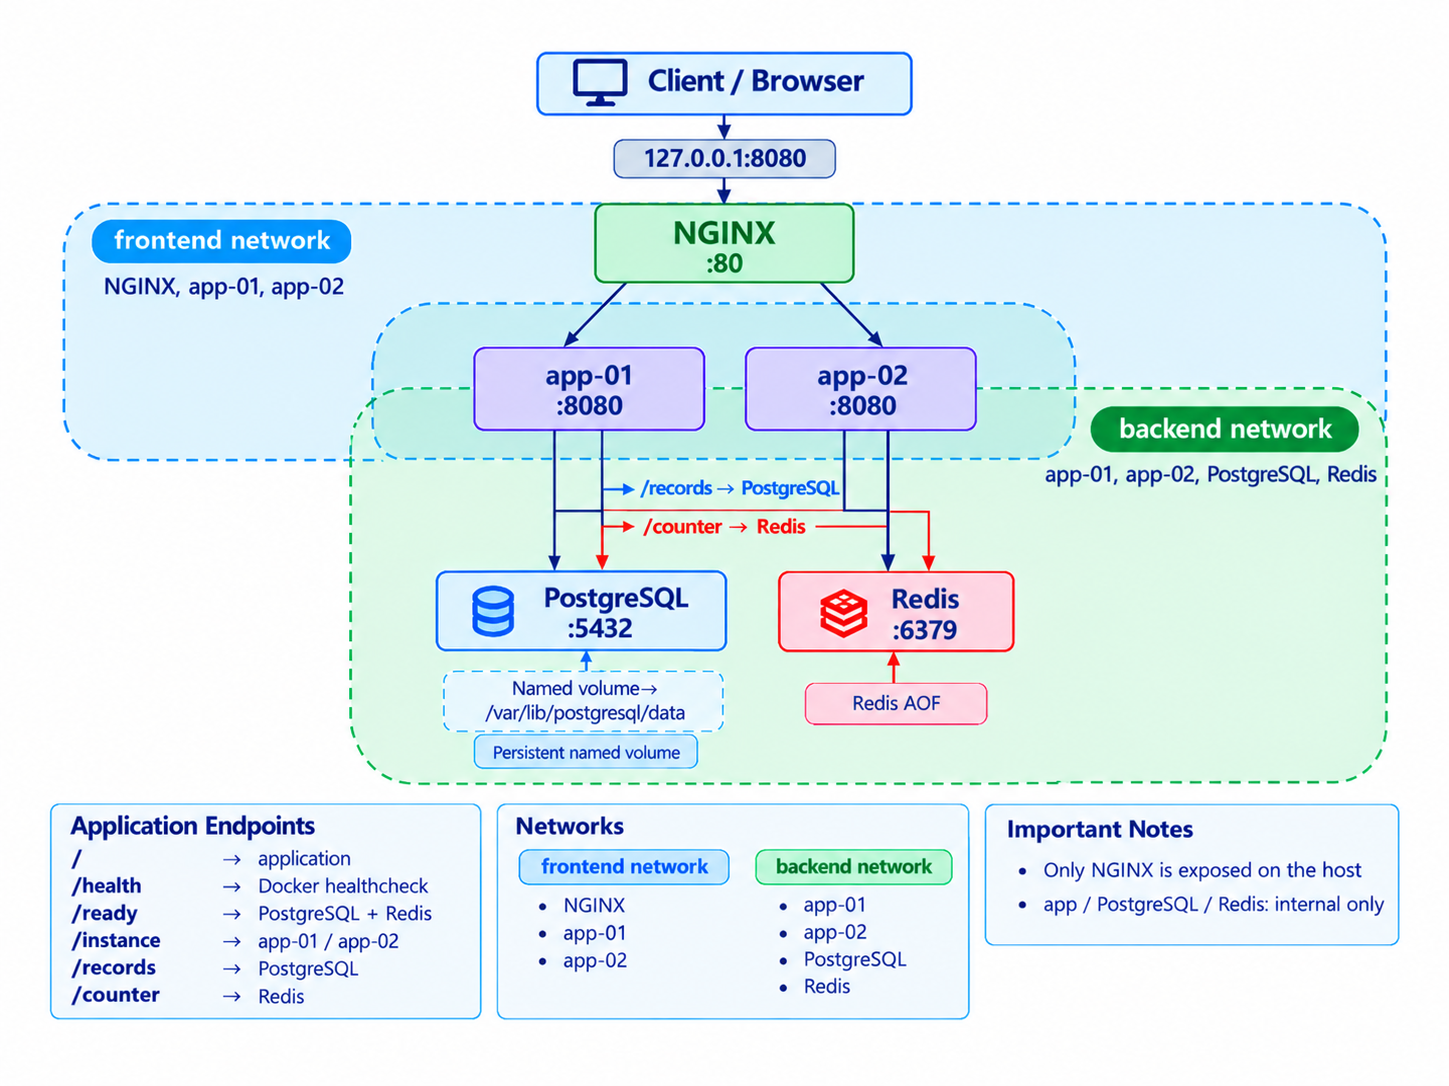
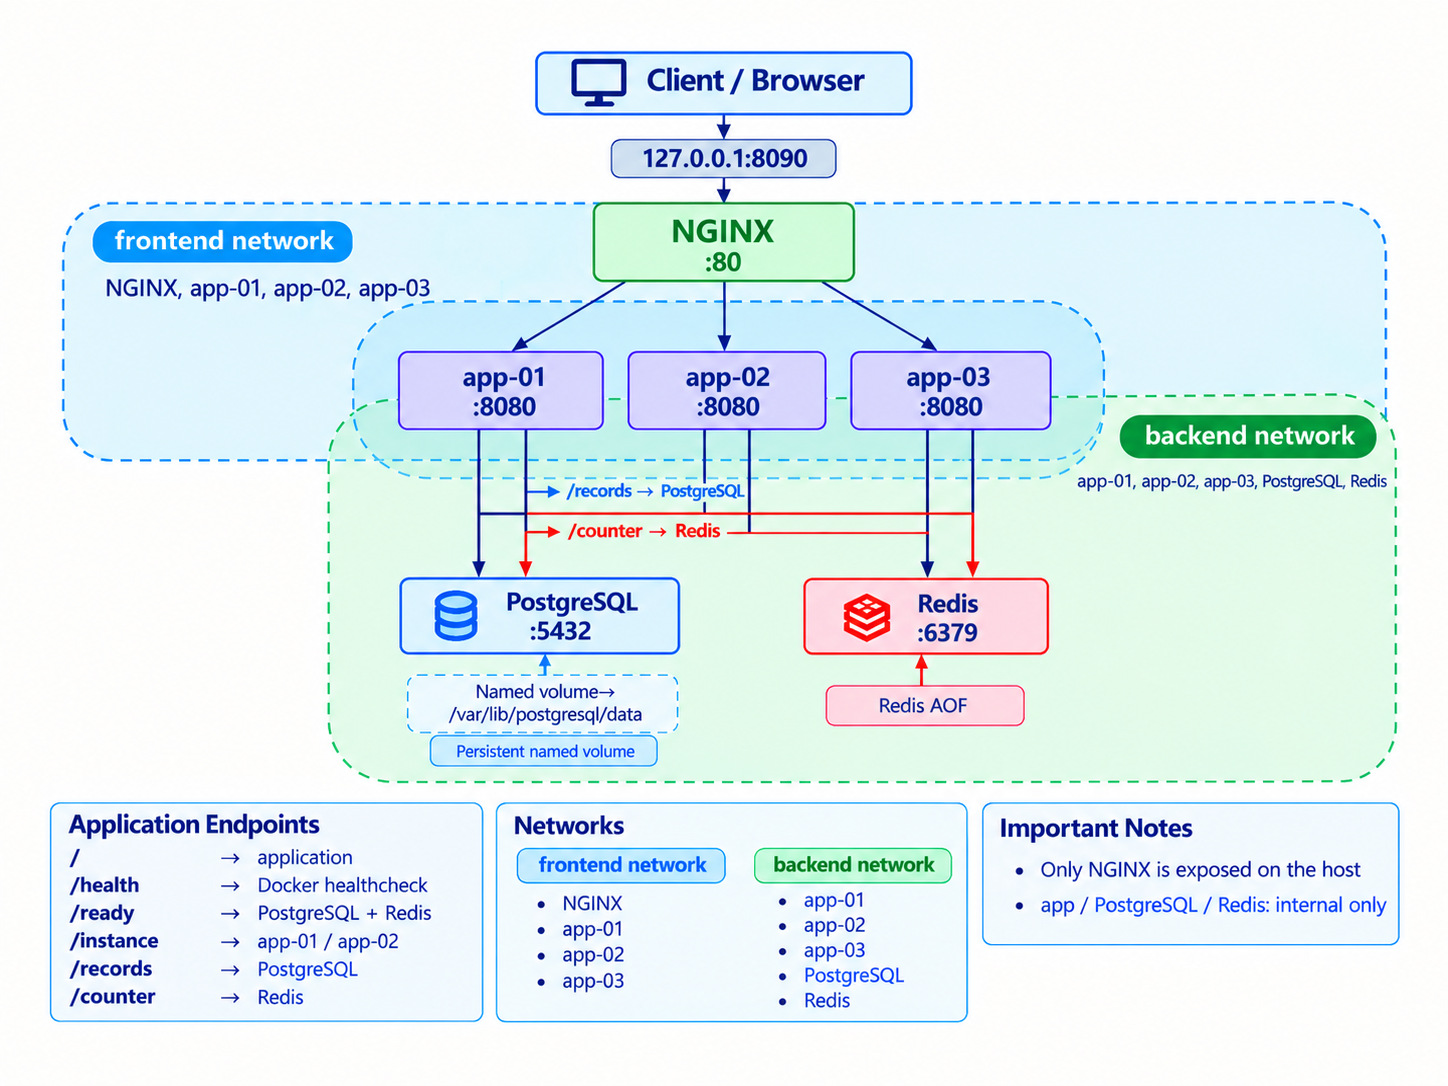
docs: finalize README and architecture

Changed region(s): [[0.0311, 0.0304, 0.9634, 0.942], [0.6526, 0.1823, 0.8391, 0.2127], [0.8702, 0.1823, 0.9323, 0.2127]]

diff --git a/README.md b/README.md
@@ -5,7 +5,7 @@
 A Docker Compose–based DevOps assessment environment containing:
 
 - NGINX reverse proxy (single public entry point)
-- Two Flask application instances (`app-01`, `app-02`)
+- Three Flask application instances (`app-01`, `app-02`, `app-03`)
 - PostgreSQL (persistence, named volume)
 - Redis (append-only persistence)
 - Separated `frontend` / `backend` Docker networks
@@ -28,8 +28,8 @@ A Docker Compose–based DevOps assessment environment containing:
 
 | Component | Network(s) | Published port |
 |-----------|------------|----------------|
-| NGINX | `frontend` only | `127.0.0.1:8080` |
-| `app-01`, `app-02` | `frontend` + `backend` | None (internal) |
+| NGINX | `frontend` only | `127.0.0.1:8090` |
+| `app-01`, `app-02`, `app-03` | `frontend` + `backend` | None (internal) |
 | PostgreSQL | `backend` only | None |
 | Redis | `backend` only | None |
 
@@ -90,7 +90,7 @@ docker compose -p barq-assessment down
 
 ## Application Endpoints
 
-All endpoints are accessed through NGINX at `http://127.0.0.1:8080`.
+All endpoints are accessed through NGINX at `http://127.0.0.1:8090`.
 
 | Endpoint | Method | Description |
 |----------|--------|-------------|
@@ -111,10 +111,10 @@ python3 validate.py
 
 Performs bounded integration checks against the running environment:
 
-- Public NGINX access on `http://127.0.0.1:8080`
+- Public NGINX access on `http://127.0.0.1:8090`
 - Application endpoint responses (`/`, `/health`, `/ready`, `/instance`, `/records`, `/counter`)
 - PostgreSQL and Redis readiness via `/ready`
-- Traffic reaching both `app-01` and `app-02`
+- Traffic reaching all three application instances (`app-01`, `app-02`, `app-03`)
 - Service health statuses
 - Network and port expectations
 
@@ -134,6 +134,8 @@ The test intentionally stops `app-01` while requests are in flight and then rest
 - After restarting `app-01`: **40 of 40 requests succeeded**, with both instances available.
 
 > This demonstrates surviving-backend service availability during single-instance failure, but also exposes transient request failures that occur when a backend is abruptly stopped.
+
+> This test was executed before the final `app-03` expansion, when the environment had two application instances (`app-01`, `app-02`). The final runtime was later expanded to three application instances.
 
 ---
 
@@ -188,7 +190,7 @@ The GitHub Actions workflow (`.github/workflows/ci.yml`) performs:
 2. **Compose validation** – runs `docker compose config -q`.
 3. **Build** – builds all images.
 4. **Start** – starts the full Compose environment.
-5. **Wait** – polls `http://localhost:8080/ready` until it returns HTTP 200.
+5. **Wait** – polls `http://localhost:8090/ready` until it returns HTTP 200.
 6. **Validate** – runs `python3 validate.py`.
 7. **Cleanup** – runs `docker compose down`.
 
@@ -210,21 +212,22 @@ The GitHub Actions workflow (`.github/workflows/ci.yml`) performs:
 
 ## Evidence Index
 
-| Area | Relevant files | Commit |
-|------|---------------|--------|
-| Baseline investigation | `troubleshooting.md` | `8442da3` |
-| Application / NGINX fixes | `docker-compose.yml`, `nginx/nginx.conf` | `5c9ca06` |
-| DB / Redis connectivity | `config/app.env` | `5992c22` |
-| Persistence / network isolation | `docker-compose.yml` | `58ae345` |
-| Runtime reliability (restarts, limits) | `docker-compose.yml` | `80d405d` |
-| Security fixes | `Dockerfile`, `docker-compose.yml`, `.gitignore`, `.dockerignore` | `1a1d567` |
-| Validation script | `validate.py` | `4034e2f` |
-| Failure / recovery test | `failure_test.py` | `21e3475` |
-| Backup / restore scripts | `backup.sh`, `restore.sh` | `187c49f` |
-| CI workflow | `.github/workflows/ci.yml` | `c5b5e82` |
-| Log analysis | `analyze_logs.py`, `log_analysis.md` | `ed281b7` |
-| Decision records | `decisions.md` | `fcfc037` |
-| Security review | `security_review.md` | `e45c7e8` |
-| AI usage disclosure | `AI_USAGE.md` | `5f0f654` |
-
-> Video timestamps will be added after the final recording.
+| Area | Relevant files | Commit | Video evidence |
+|------|----------------|--------|----------------|
+| Baseline investigation | `troubleshooting.md` | `8442da3` | 00:00–01:50 |
+| Application / NGINX fixes | `docker-compose.yml`, `nginx/nginx.conf` | `5c9ca06` | 01:50–03:55 |
+| DB / Redis connectivity | `config/app.env` | `5992c22` | 01:50–03:55 |
+| Persistence / network isolation | `docker-compose.yml` | `58ae345` | 05:45–07:27 |
+| Runtime reliability (restarts, limits) | `docker-compose.yml` | `80d405d` | 01:50–03:55 |
+| Security fixes | `Dockerfile`, `docker-compose.yml`, `.gitignore`, `.dockerignore` | `1a1d567` | 01:50–03:55 |
+| Validation script | `validate.py` | `4034e2f` | 07:27–10:11 |
+| Failure / recovery test | `failure_test.py` | `21e3475` | 03:55–05:45, 07:27–10:11 |
+| Backup / restore scripts | `backup.sh`, `restore.sh` | `187c49f` | 05:45–07:27 |
+| CI workflow | `.github/workflows/ci.yml` | `c5b5e82` | Final repository state |
+| Log analysis | `analyze_logs.py`, `log_analysis.md` | `ed281b7` | 07:27–10:11 |
+| Decision records | `decisions.md` | `fcfc037` | Final repository state |
+| Security review | `security_review.md` | `e45c7e8` | Final repository state |
+| AI usage disclosure | `AI_USAGE.md` | `5f0f654` | Final repository state |
+| Video challenge / runtime diagnosis | `video_challenge.sh`, `docker-compose.yml` | Final runtime state | 10:11–12:49 |
+| Final runtime: port 8090 + app-03 | `docker-compose.yml`, `nginx/nginx.conf`, `validate.py`, `.github/workflows/ci.yml` | `257b26f` | 12:49–20:49 |
+| Final Git verification / push | Git history and repository state | `257b26f` | 20:49–23:35 |
